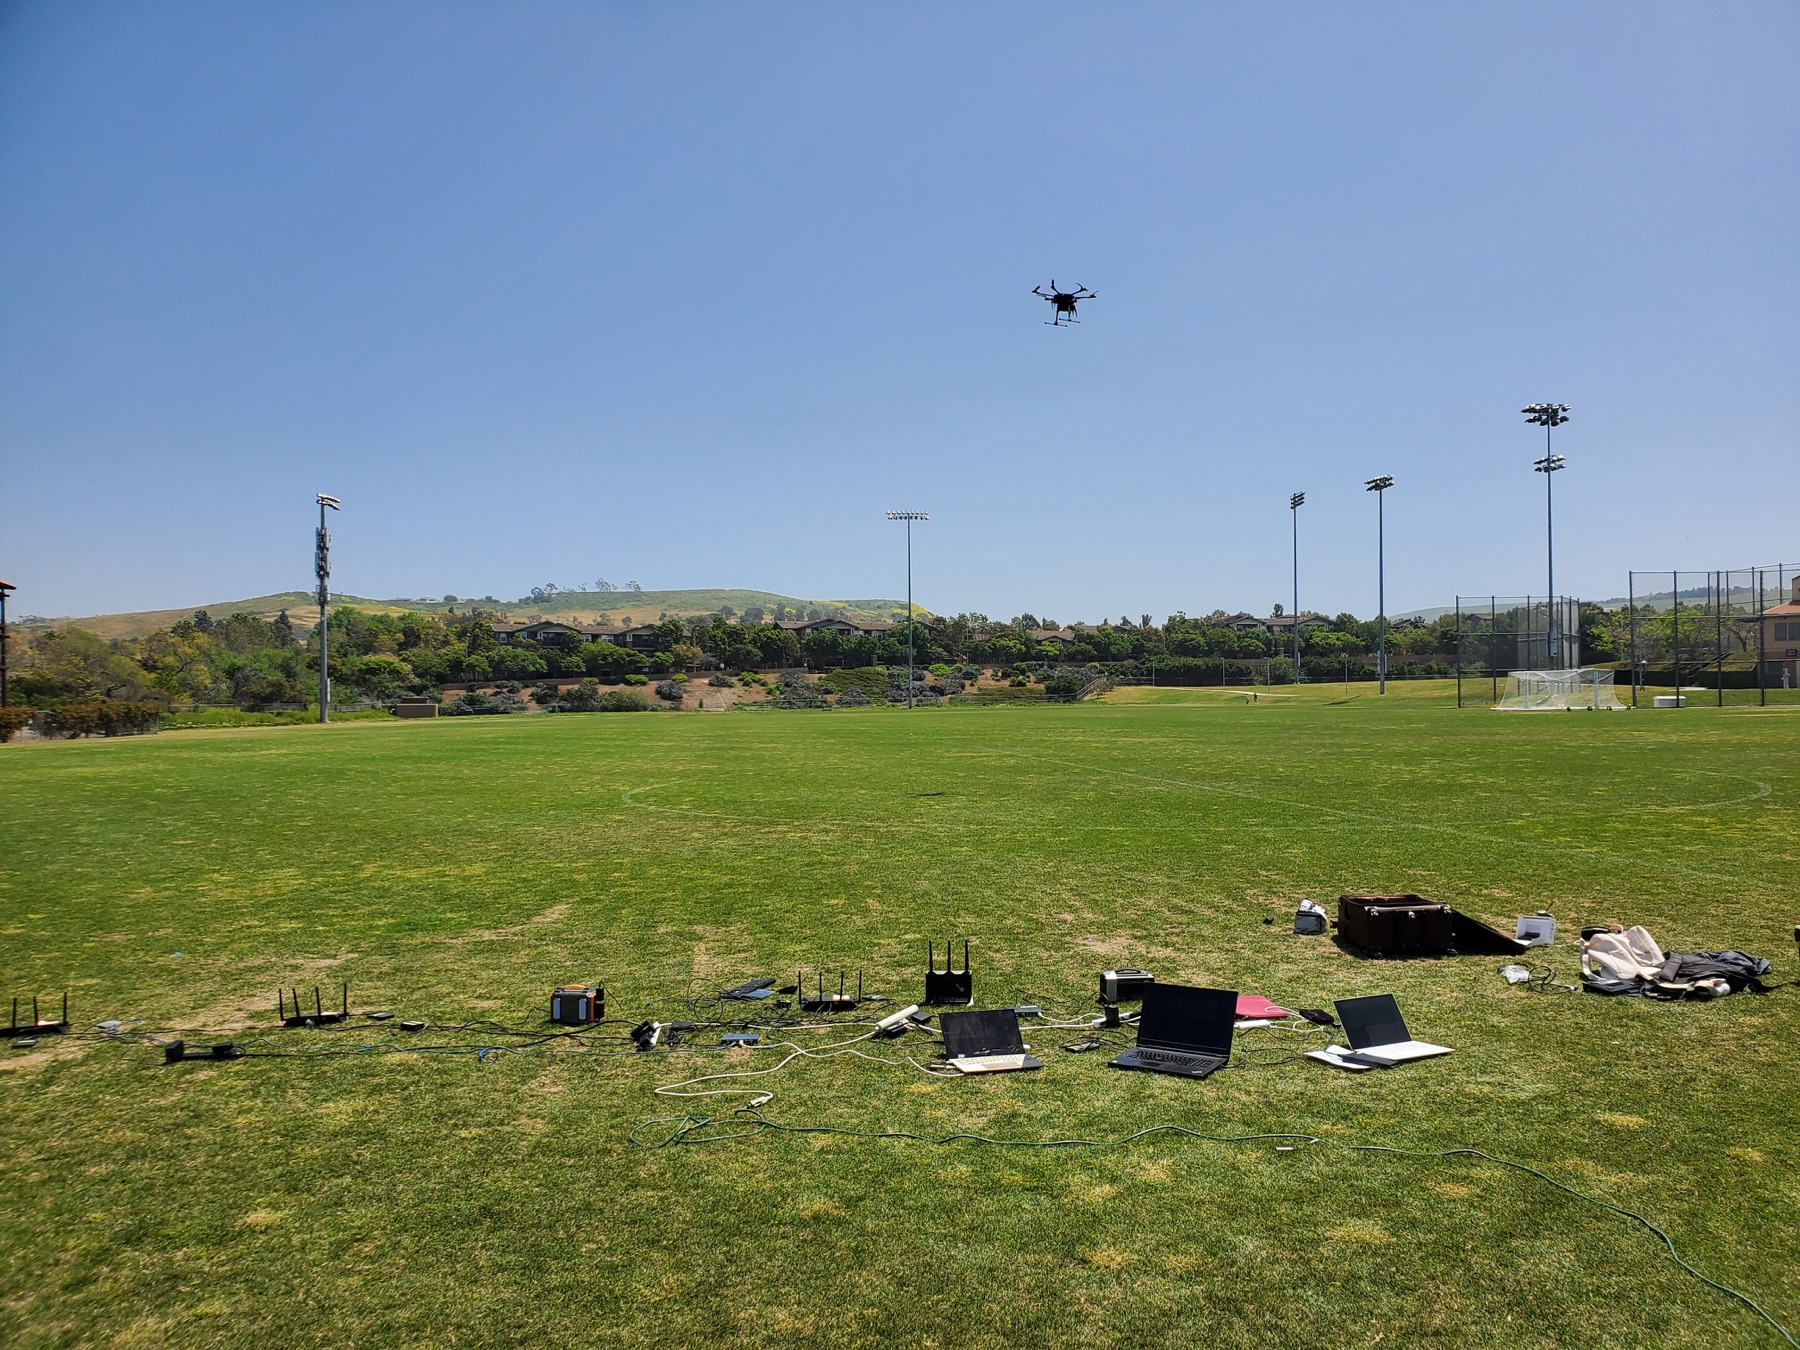
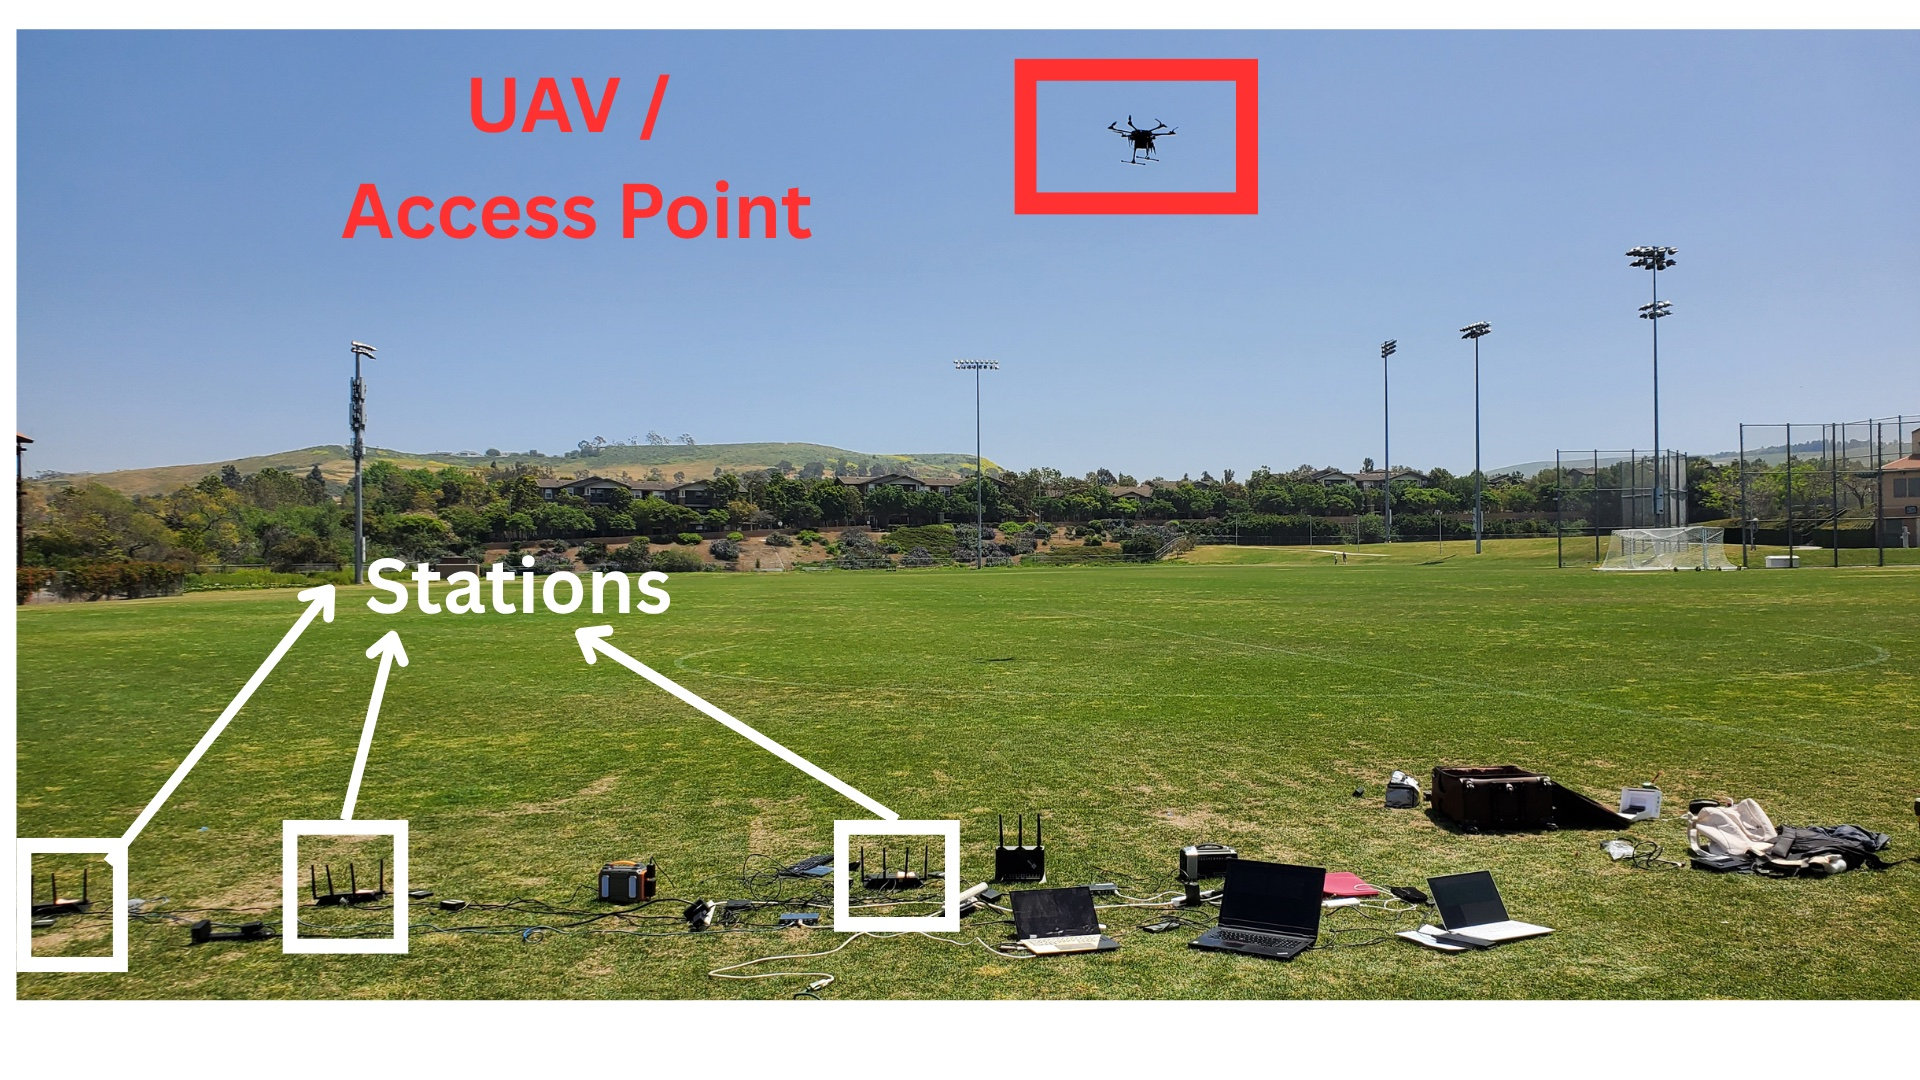
update testbed

diff --git a/_pages/testbeds-datasets.md b/_pages/testbeds-datasets.md
@@ -225,9 +225,44 @@ nav_order: 5
           <h4>Research Enabled</h4>
           <ul>
             <li>SOAR semantic multi-user MIMO communication</li>
-            <li>Reliable image classification and instance-segmentation offloading</li>
             <li>Task-aware wireless resource optimization</li>
             <li><a href="https://github.com/Restuccia-Group/SOAR">Open-source implementation</a></li>
+          </ul>
+        </section>
+      </div>
+    </div>
+  </article>
+
+  <article class="testbed-card">
+    <img
+      src="{{ '/assets/img/testbeds/usrp_ota_testbed.jpg' | relative_url }}"
+      alt="Distributed USRP software-defined radios deployed for an indoor over-the-air experiment"
+      loading="lazy"
+    >
+    <div class="testbed-content">
+      <h3>USRP-Based Over-the-Air Testbed</h3>
+      <p class="testbed-meta">USRP SDRs &middot; Indoor OTA experiments &middot; Real wireless channels</p>
+      <p>
+        A configurable software-defined radio platform for prototyping and evaluating wireless systems through indoor over-the-air
+        experiments. Distributed USRPs support measurements across different transmitter and receiver locations.
+      </p>
+
+      <div class="testbed-details">
+        <section>
+          <h4>System Capabilities</h4>
+          <ul>
+            <li>Indoor over-the-air transmission and reception</li>
+            <li>Configurable SDR-based wireless experiments</li>
+            <li>Measurements across different transmitter and receiver locations</li>
+          </ul>
+        </section>
+
+        <section>
+          <h4>Research Enabled</h4>
+          <ul>
+            <li>Evaluation of learning-based wireless systems</li>
+            <li>Physical-layer prototyping over real channels</li>
+            <li>OTA experiments supporting the PhyDNNs project</li>
           </ul>
         </section>
       </div>
